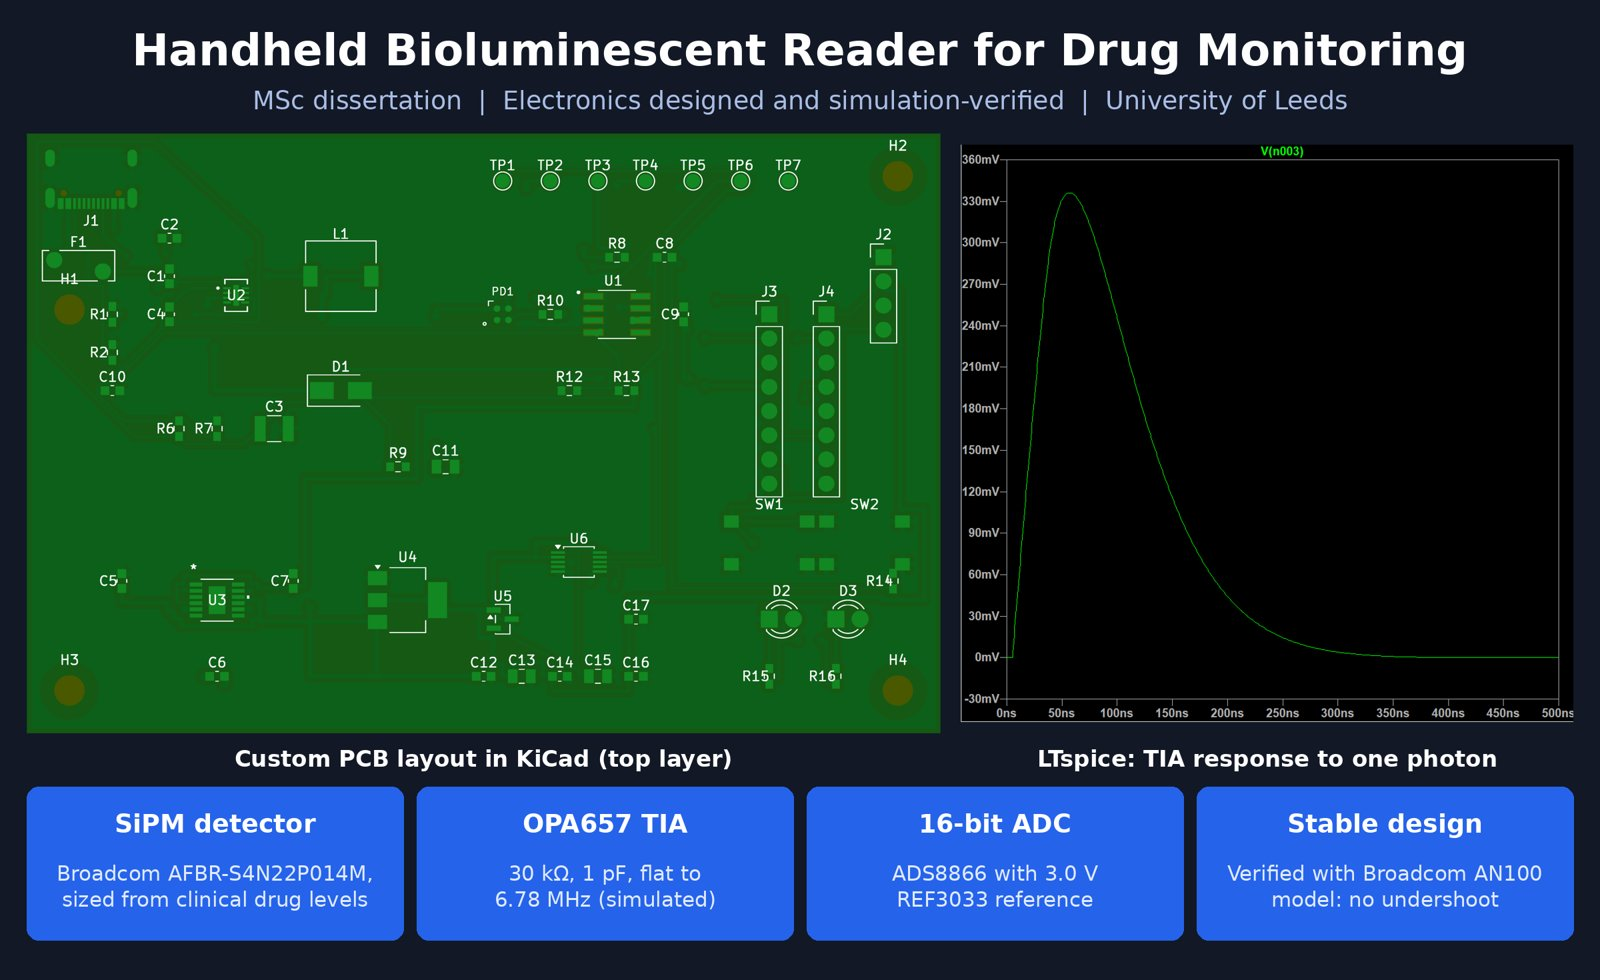
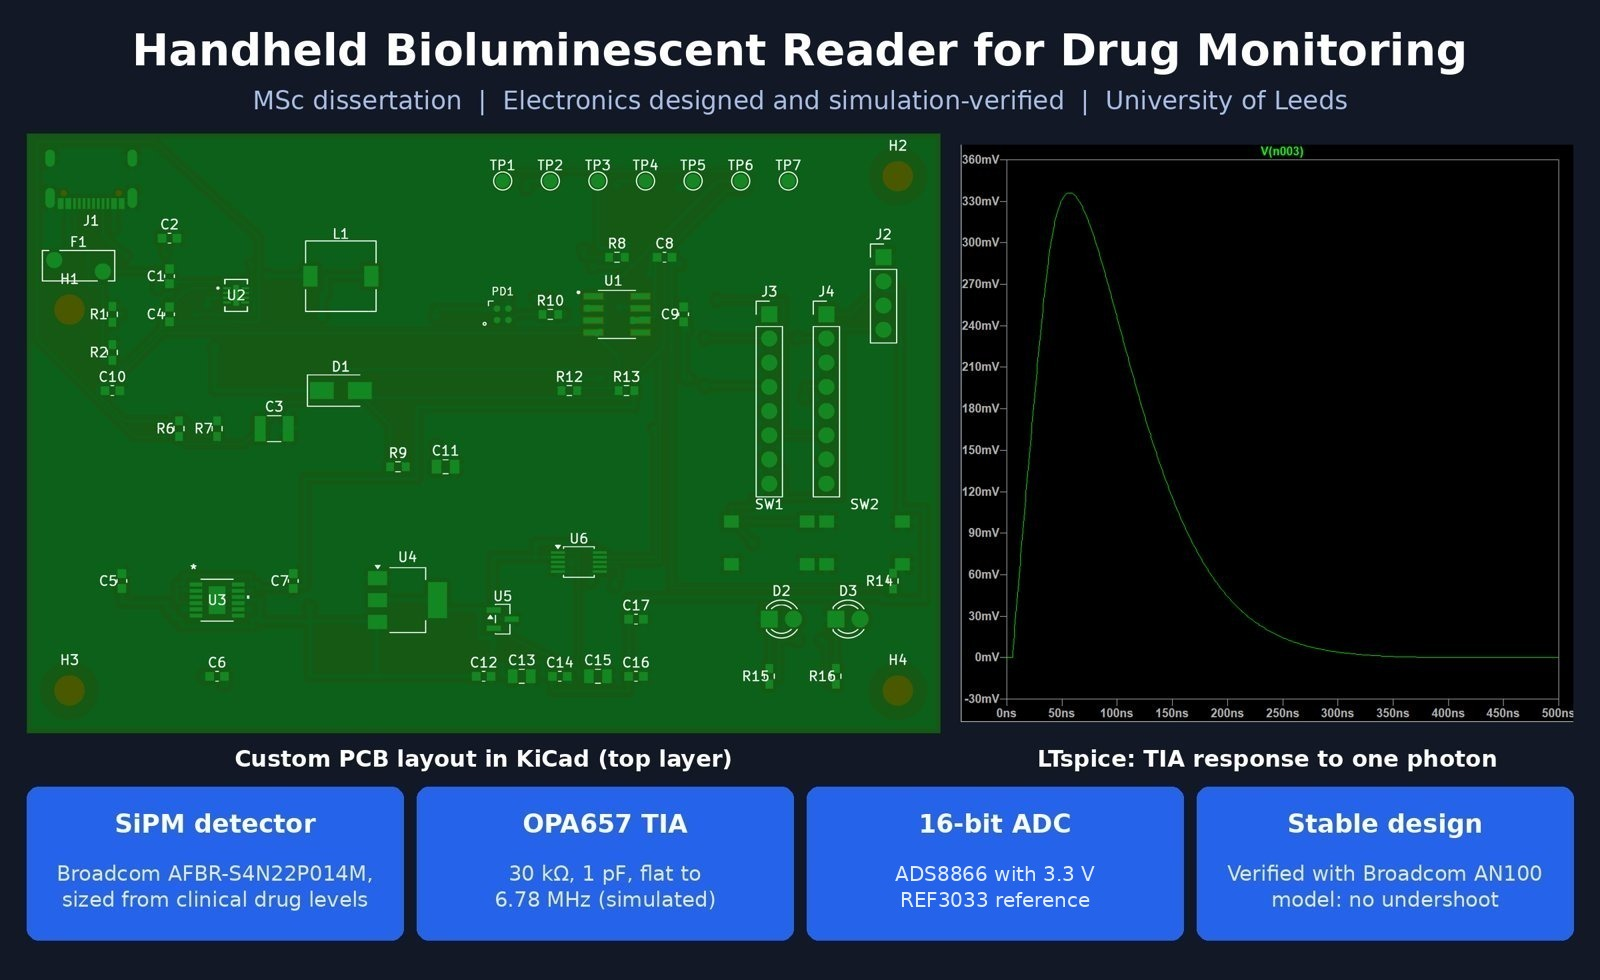
Fix ADC reference to 3.3 V (REF3033) and align noise figure with design notes
Claude-Session: https://claude.ai/code/session_01BjY7UBoE7es2W1DHJK9Qv1

diff --git a/index.html b/index.html
@@ -108,7 +108,7 @@
       <p>Complete front-end design for a handheld point-of-care reader: a Broadcom AFBR-S4N22P014M silicon photomultiplier biased at 44.5 V, an OPA657 transimpedance amplifier (30 kOhm, 1 pF), and a 16-bit ADS8866 SAR converter, powered from a single 5 V USB input.</p>
       <div class="numbers">
         <span>Transimpedance 29,981 &Omega; flat to 6.78 MHz</span>
-        <span>2.2 pA noise floor, fully accounted for</span>
+        <span>Input noise about 30 pA after filtering</span>
         <span>1.59 kHz filter: noise down 55&times;</span>
         <span>Two detector models agree to 0.2% on charge</span>
         <span>&gt;80 dB ambient-light spec, derived not guessed</span>
